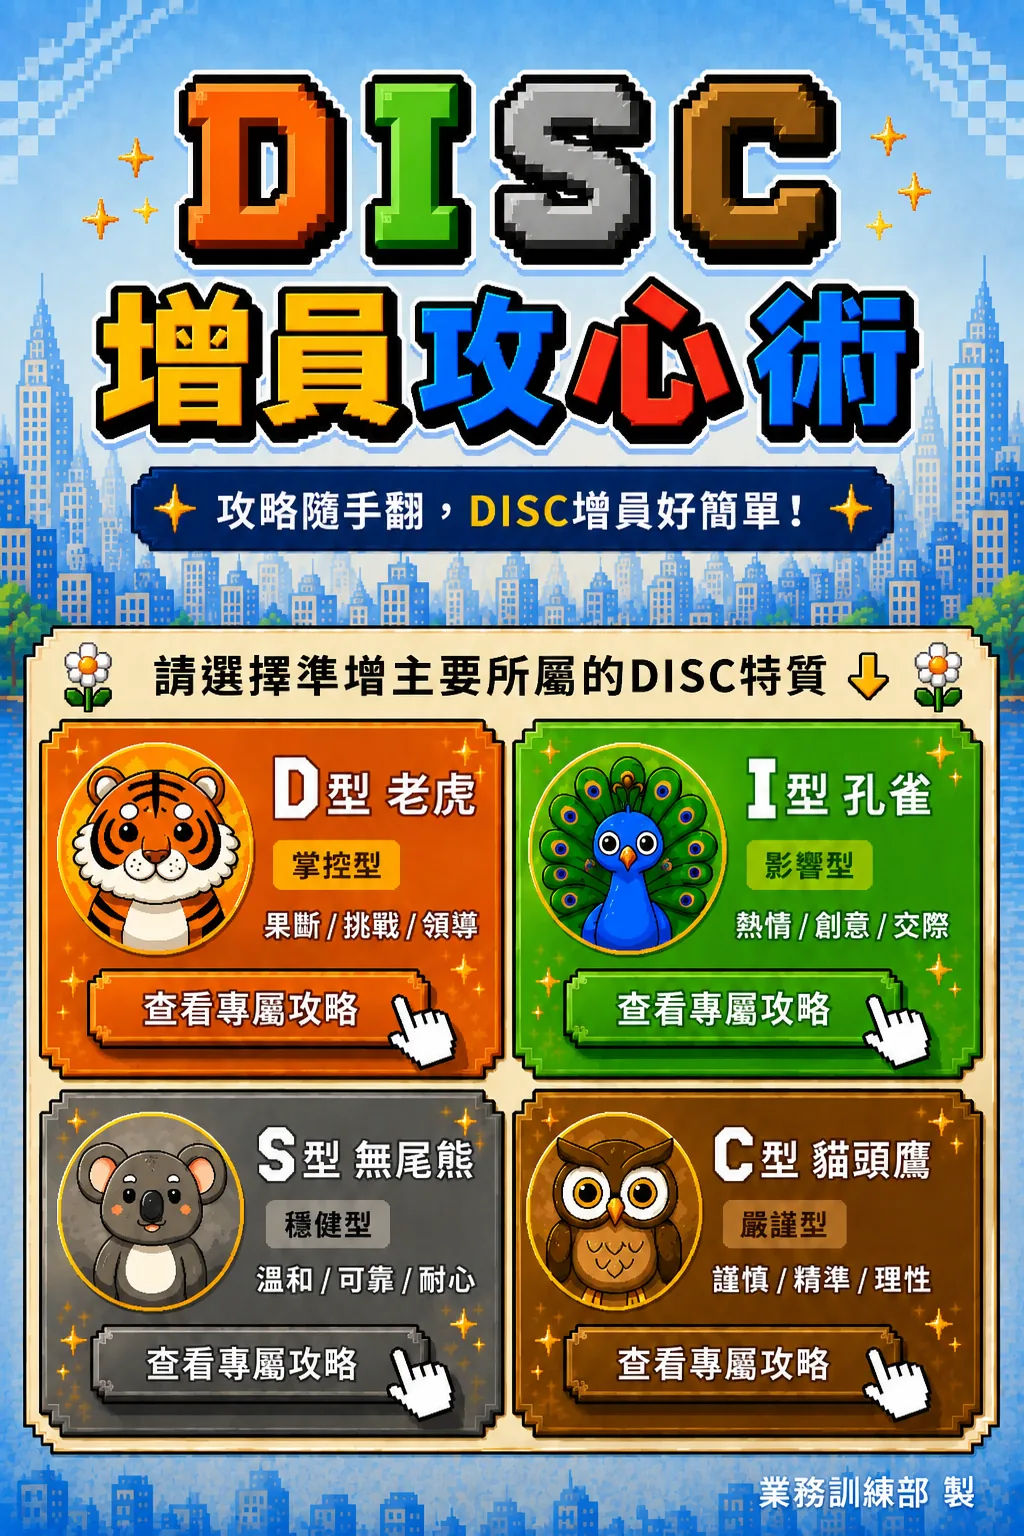
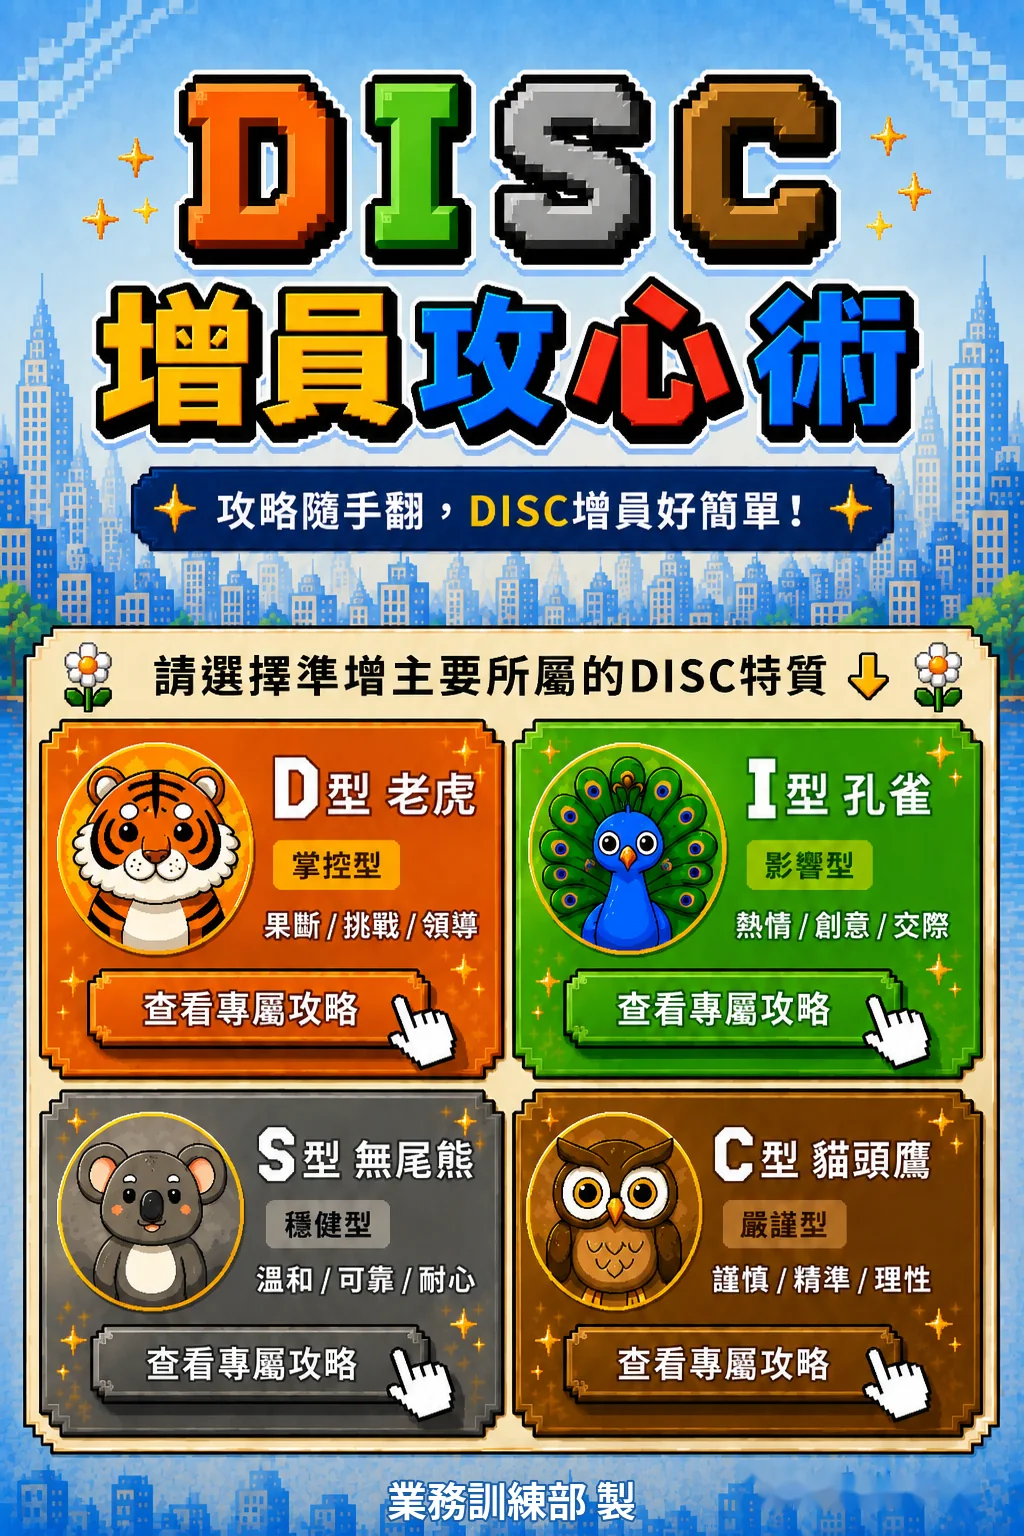
Add files via upload

Changed region(s): [[0.7188, 0.9375, 0.9688, 1.0], [0.375, 0.9375, 0.625, 1.0]]

diff --git a/css/style.css b/css/style.css
@@ -1,4 +1,3 @@
-
 *{box-sizing:border-box}
 html,body{width:100%;height:100%;margin:0}
 body{
@@ -9,18 +8,20 @@ body{
   overscroll-behavior:none;
 }
 #app{
-  width:100%;
+  width:100vw;
   height:100dvh;
-  display:flex;
-  align-items:center;
-  justify-content:center;
+  display:grid;
+  place-items:center;
   overflow:hidden;
 }
+/* 以 1024×1536（2:3）原圖比例呈現。
+   桌機/平板優先滿高；手機優先完整顯示整張頁面，絕不裁切左右內容。 */
 .stage{
   position:relative;
-  height:100dvh;
-  width:66.6666667dvh;
-  max-width:none;
+  width:min(100vw, 66.6666667dvh);
+  height:auto;
+  max-width:100vw;
+  max-height:100dvh;
   aspect-ratio:2/3;
   flex:0 0 auto;
   overflow:hidden;
@@ -39,11 +40,7 @@ body{
   -webkit-user-drag:none;
   opacity:1;
 }
-.hotspots{
-  position:absolute;
-  inset:0;
-  z-index:5;
-}
+.hotspots{position:absolute;inset:0;z-index:5}
 .hotspot{
   position:absolute;
   display:block;
@@ -57,79 +54,25 @@ body{
   touch-action:manipulation;
   transition:transform .12s ease,filter .12s ease,background .12s ease;
 }
-.hotspot:hover{
-  background:rgba(255,255,255,.035);
-  filter:brightness(1.04);
-}
-.hotspot:active{
-  transform:scale(.965);
-  background:rgba(255,255,255,.08);
-}
-.hotspot:focus-visible{
-  box-shadow:0 0 0 3px rgba(255,255,255,.95),0 0 0 6px rgba(53,110,255,.8);
-}
-.hotspot.back{
-  z-index:10;
-}
+.hotspot:hover{background:rgba(255,255,255,.035);filter:brightness(1.04)}
+.hotspot:active{transform:scale(.965);background:rgba(255,255,255,.08)}
+.hotspot:focus-visible{box-shadow:0 0 0 3px rgba(255,255,255,.95),0 0 0 6px rgba(53,110,255,.8)}
+.hotspot.back{z-index:10}
 .loading{
-  position:absolute;
-  inset:0;
-  z-index:20;
-  display:grid;
-  place-items:center;
-  pointer-events:none;
-  background:rgba(8,8,14,.08);
-  opacity:0;
-  transition:opacity .18s ease;
+  position:absolute;inset:0;z-index:20;
+  display:grid;place-items:center;pointer-events:none;
+  background:rgba(8,8,14,.08);opacity:0;transition:opacity .18s ease;
 }
 .loading.show{opacity:1}
-.loading span{
-  width:32px;height:32px;
-  border:3px solid rgba(255,255,255,.4);
-  border-top-color:#fff;
-  border-radius:50%;
-  animation:spin .7s linear infinite;
-}
+.loading span{width:32px;height:32px;border:3px solid rgba(255,255,255,.4);border-top-color:#fff;border-radius:50%;animation:spin .7s linear infinite}
 @keyframes spin{to{transform:rotate(360deg)}}
 
-/* 首頁標題區的微動態：不改圖片，只讓整個首頁產生輕微呼吸感 */
-.stage.home-motion::after{
-  content:"";
-  position:absolute;
-  left:10%;
-  right:10%;
-  top:2%;
-  height:29%;
-  z-index:2;
-  pointer-events:none;
-  border-radius:30%;
-  animation:titleGlow 2.8s ease-in-out infinite;
-}
-@keyframes titleGlow{
-  0%,100%{transform:scale(.985);opacity:.0}
-  50%{transform:scale(1.015);opacity:.08}
-}
-
-/* 頁面切換 */
-.page-enter{animation:pageIn .32s cubic-bezier(.2,.75,.25,1)}
-@keyframes pageIn{
-  from{opacity:.25;transform:scale(.985)}
-  to{opacity:1;transform:scale(1)}
-}
-
-@media (max-height:620px){
-  .stage{height:100dvh;width:66.6666667dvh}
-}
-@media (prefers-reduced-motion:reduce){
-  .stage.home-motion::after,.page-enter{animation:none!important}
-  .hotspot{transition:none}
-}
-
+/* 首頁大標題縮放／呼吸動畫 */
 .title-overlay{
   position:absolute;
   left:0;right:0;top:0;
   height:31%;
-  z-index:3;
+  z-index:6;
   pointer-events:none;
   background-image:var(--page-bg);
   background-size:100% 322.58%;
@@ -137,30 +80,59 @@ body{
   background-repeat:no-repeat;
   transform-origin:50% 45%;
   opacity:0;
+  clip-path:inset(1% 4% 0 4% round 8px);
 }
 .stage.home-motion .title-overlay{
   opacity:1;
-  animation:titleZoom 3.2s ease-in-out infinite;
+  animation:titleZoom 2.8s ease-in-out infinite;
 }
 @keyframes titleZoom{
-  0%,100%{transform:scale(.985)}
-  50%{transform:scale(1.035)}
+  0%,100%{transform:scale(.985);filter:brightness(1)}
+  50%{transform:scale(1.035);filter:brightness(1.05)}
 }
-.music-control{
+
+/* 首頁四個「手指」縮放提示。使用原首頁手指裁切素材，避免把整張卡片一起放大。 */
+.finger-overlays{position:absolute;inset:0;z-index:7;pointer-events:none;display:none}
+.stage.home-motion .finger-overlays{display:block}
+.finger{
   position:absolute;
-  z-index:30;
-  right:2.2%;
-  top:1.4%;
-  width:7.5%;
-  aspect-ratio:1;
-  border:2px solid #111;
-  border-radius:50%;
-  background:rgba(255,255,255,.9);
-  color:#111;
-  font-size:clamp(12px,2.1vw,22px);
-  cursor:pointer;
-  box-shadow:0 2px 0 #111;
-  touch-action:manipulation;
+  background-repeat:no-repeat;
+  background-size:100% 100%;
+  transform-origin:center center;
+  animation:fingerPulse 1.55s ease-in-out infinite;
+  will-change:transform,filter;
+  filter:drop-shadow(0 2px 2px rgba(0,0,0,.22));
+}
+.finger.tiger{left:37.50%;top:64.45%;width:7.52%;height:5.40%;background-image:url('../assets/finger_tiger.webp');animation-delay:0s}
+.finger.peacock{left:83.79%;top:64.52%;width:7.62%;height:5.40%;background-image:url('../assets/finger_peacock.webp');animation-delay:.12s}
+.finger.koala{left:36.91%;top:87.11%;width:8.30%;height:7.10%;background-image:url('../assets/finger_koala.webp');animation-delay:.24s}
+.finger.owl{left:83.79%;top:87.37%;width:7.62%;height:6.84%;background-image:url('../assets/finger_owl.webp');animation-delay:.36s}
+@keyframes fingerPulse{
+  0%,100%{transform:scale(.92) translateY(0);filter:drop-shadow(0 2px 2px rgba(0,0,0,.20))}
+  50%{transform:scale(1.13) translateY(-1.5%);filter:drop-shadow(0 3px 4px rgba(0,0,0,.30))}
+}
+
+/* 頁面切換 */
+.page-enter{animation:pageIn .32s cubic-bezier(.2,.75,.25,1)}
+@keyframes pageIn{from{opacity:.25;transform:scale(.985)}to{opacity:1;transform:scale(1)}}
+
+.music-control{
+  position:absolute;z-index:30;right:2.2%;top:1.4%;width:7.5%;aspect-ratio:1;
+  border:2px solid #111;border-radius:50%;background:rgba(255,255,255,.9);color:#111;
+  font-size:clamp(12px,2.1vw,22px);cursor:pointer;box-shadow:0 2px 0 #111;touch-action:manipulation;
 }
 .music-control:active{transform:scale(.9)}
 .music-control.off{opacity:.58}
+
+@media (max-width:480px){
+  #app{padding:0}
+  .stage{width:100vw;max-width:100vw;max-height:100dvh}
+  .hotspot{border-radius:10px}
+}
+@media (max-height:620px){
+  .stage{width:min(100vw,66.6666667dvh);max-width:100vw;max-height:100dvh}
+}
+@media (prefers-reduced-motion:reduce){
+  .stage.home-motion .title-overlay,.finger,.page-enter{animation:none!important}
+  .hotspot{transition:none}
+}

diff --git a/index.html b/index.html
@@ -3,10 +3,9 @@
 <head>
 <meta charset="utf-8">
 <meta name="viewport" content="width=device-width, initial-scale=1, viewport-fit=cover">
-<meta name="theme-color" content="#111">
+<meta name="theme-color" content="#0b0b12">
 <title>DISC 增員攻心術</title>
 <link rel="stylesheet" href="css/style.css">
-<style>html,body{width:100%;height:100%;margin:0}body{overflow:hidden;background:#0b0b12}#app{width:100%;height:100dvh;display:flex;align-items:center;justify-content:center;overflow:hidden}.stage{position:relative;height:100dvh;width:66.6666667dvh;aspect-ratio:2/3;overflow:hidden;background:#fff}.page-image{position:absolute;inset:0;width:100%;height:100%;display:block;object-fit:fill}</style>
 </head>
 <body>
 <main id="app" aria-label="DISC 增員攻心術互動網站">
@@ -14,6 +13,12 @@
     <img id="pageImage" class="page-image" src="assets/home.webp" alt="DISC 增員攻心術首頁" draggable="false" decoding="async">
     <div id="hotspots" class="hotspots"></div>
     <div id="titleOverlay" class="title-overlay" aria-hidden="true"></div>
+    <div id="fingerOverlays" class="finger-overlays" aria-hidden="true">
+      <span class="finger tiger"></span>
+      <span class="finger peacock"></span>
+      <span class="finger koala"></span>
+      <span class="finger owl"></span>
+    </div>
     <button id="musicControl" class="music-control" type="button" aria-label="背景音樂開關" hidden>♫</button>
     <audio id="bgm" loop preload="none"></audio>
     <div id="loading" class="loading" aria-hidden="true"><span></span></div>

diff --git a/js/script.js b/js/script.js
@@ -4,6 +4,7 @@ const HOTSPOTS = document.getElementById('hotspots');
 const STAGE = document.getElementById('stage');
 const LOADING = document.getElementById('loading');
 const TITLE = document.getElementById('titleOverlay');
+const FINGER_ASSETS = ['assets/finger_tiger.webp','assets/finger_peacock.webp','assets/finger_koala.webp','assets/finger_owl.webp'];
 const BGM = document.getElementById('bgm');
 const MUSIC = document.getElementById('musicControl');
 let audioReady = false;
@@ -189,4 +190,6 @@ document.addEventListener('keydown',e=>{
 });
 
 const first=location.hash.slice(1);
+// 非阻塞預載四個首頁手指素材；不影響首頁顯示。
+FINGER_ASSETS.forEach(src=>{ const im=new Image(); im.decoding='async'; im.src=src; });
 go(PAGES[first]?first:'home',false);
